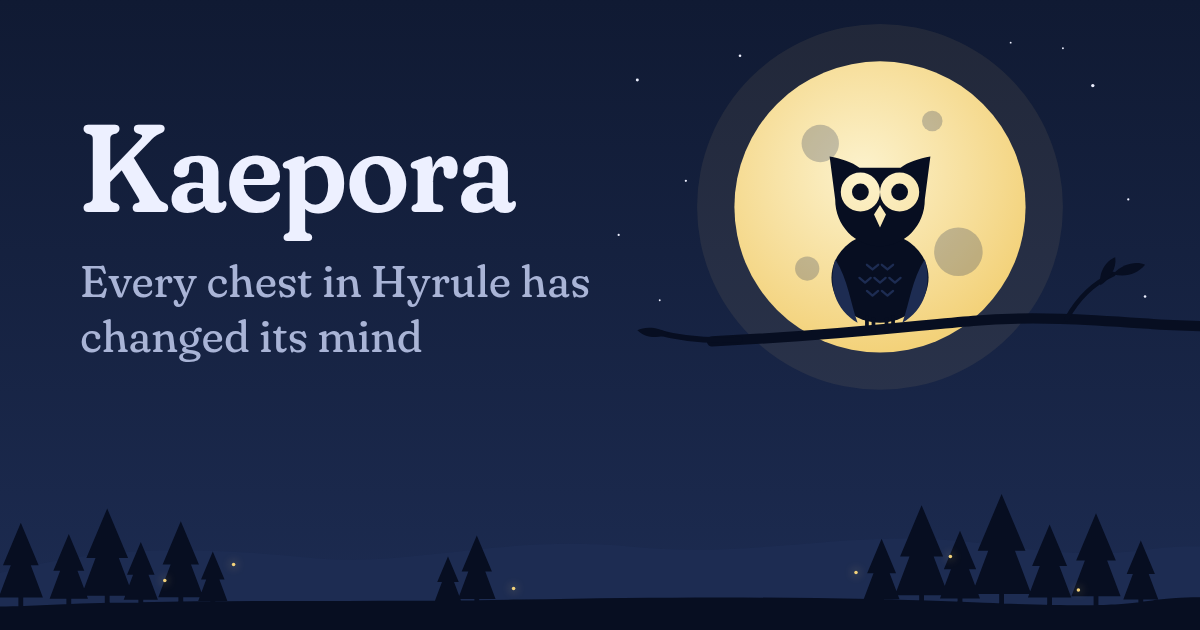
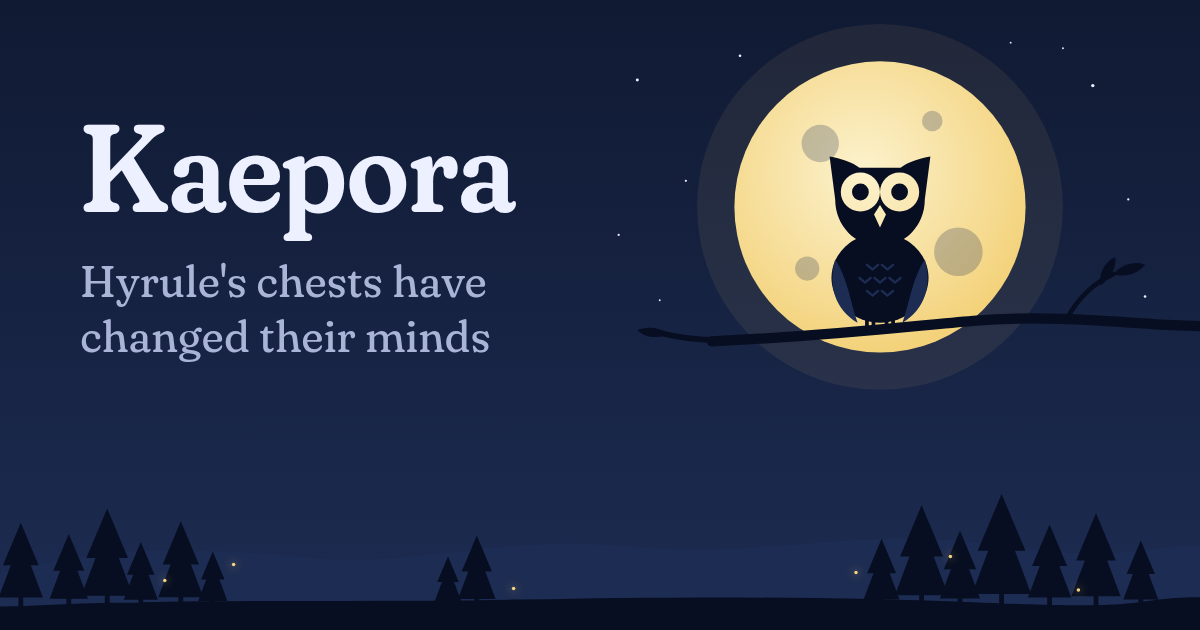
feat(web): say what a new seed shuffles
The home page's lead and the site's description say that a seed shuffles
what's in Hyrule's chests, what people hand you and the songs they
teach, since the default settings now shuffle the gifts and the songs.
The link preview's line reads "Hyrule's chests have changed their
minds", since not every chest is shuffled.

public/link-preview.png is drawn from the site's /link-preview page:
`bun run link-preview` builds the site, serves the build, and has
headless Chrome photograph that page at the card's size
(scripts/link-preview.ts). A change of the line draws the picture again
that way.

Changed region(s): [[0.0617, 0.4222, 0.4933, 0.4825], [0.2158, 0.5127, 0.4008, 0.573]]

diff --git a/web/src/copy.ts b/web/src/copy.ts
@@ -46,7 +46,7 @@ export type Copy = {
 export const copy: Copy = {
   hero: {
     headline: "You've never played this Ocarina of Time",
-    lead: "Kaepora is a randomizer for the Switch 2 remake of Ocarina of Time. It shuffles what's inside every chest in Hyrule, so the Hookshot could be anywhere. You know this game by heart. Now you get to guess.",
+    lead: "Kaepora is a randomizer for the Switch 2 remake of Ocarina of Time. It shuffles what's in Hyrule's chests, what people hand you and the songs they teach, so the Hookshot could be anywhere. You know this game by heart. Now you get to guess.",
   },
   download: {
     forSystem: {
@@ -173,9 +173,9 @@ export const copy: Copy = {
     disclosure: 'An unofficial fan project, not affiliated with or endorsed by Nintendo. The Legend of Zelda and Ocarina of Time are trademarks of Nintendo.',
   },
   meta: {
-    description: "Kaepora is a randomizer for the Switch 2 remake of Ocarina of Time. It shuffles what's inside every chest, so the game you know by heart is unknown again.",
+    description: "Kaepora is a randomizer for the Switch 2 remake of Ocarina of Time. It shuffles what's in Hyrule's chests, what people hand you and the songs they teach, so the game you know by heart is unknown again.",
   },
   preview: {
-    line: 'Every chest in Hyrule has changed its mind',
+    line: "Hyrule's chests have changed their minds",
   },
 }
